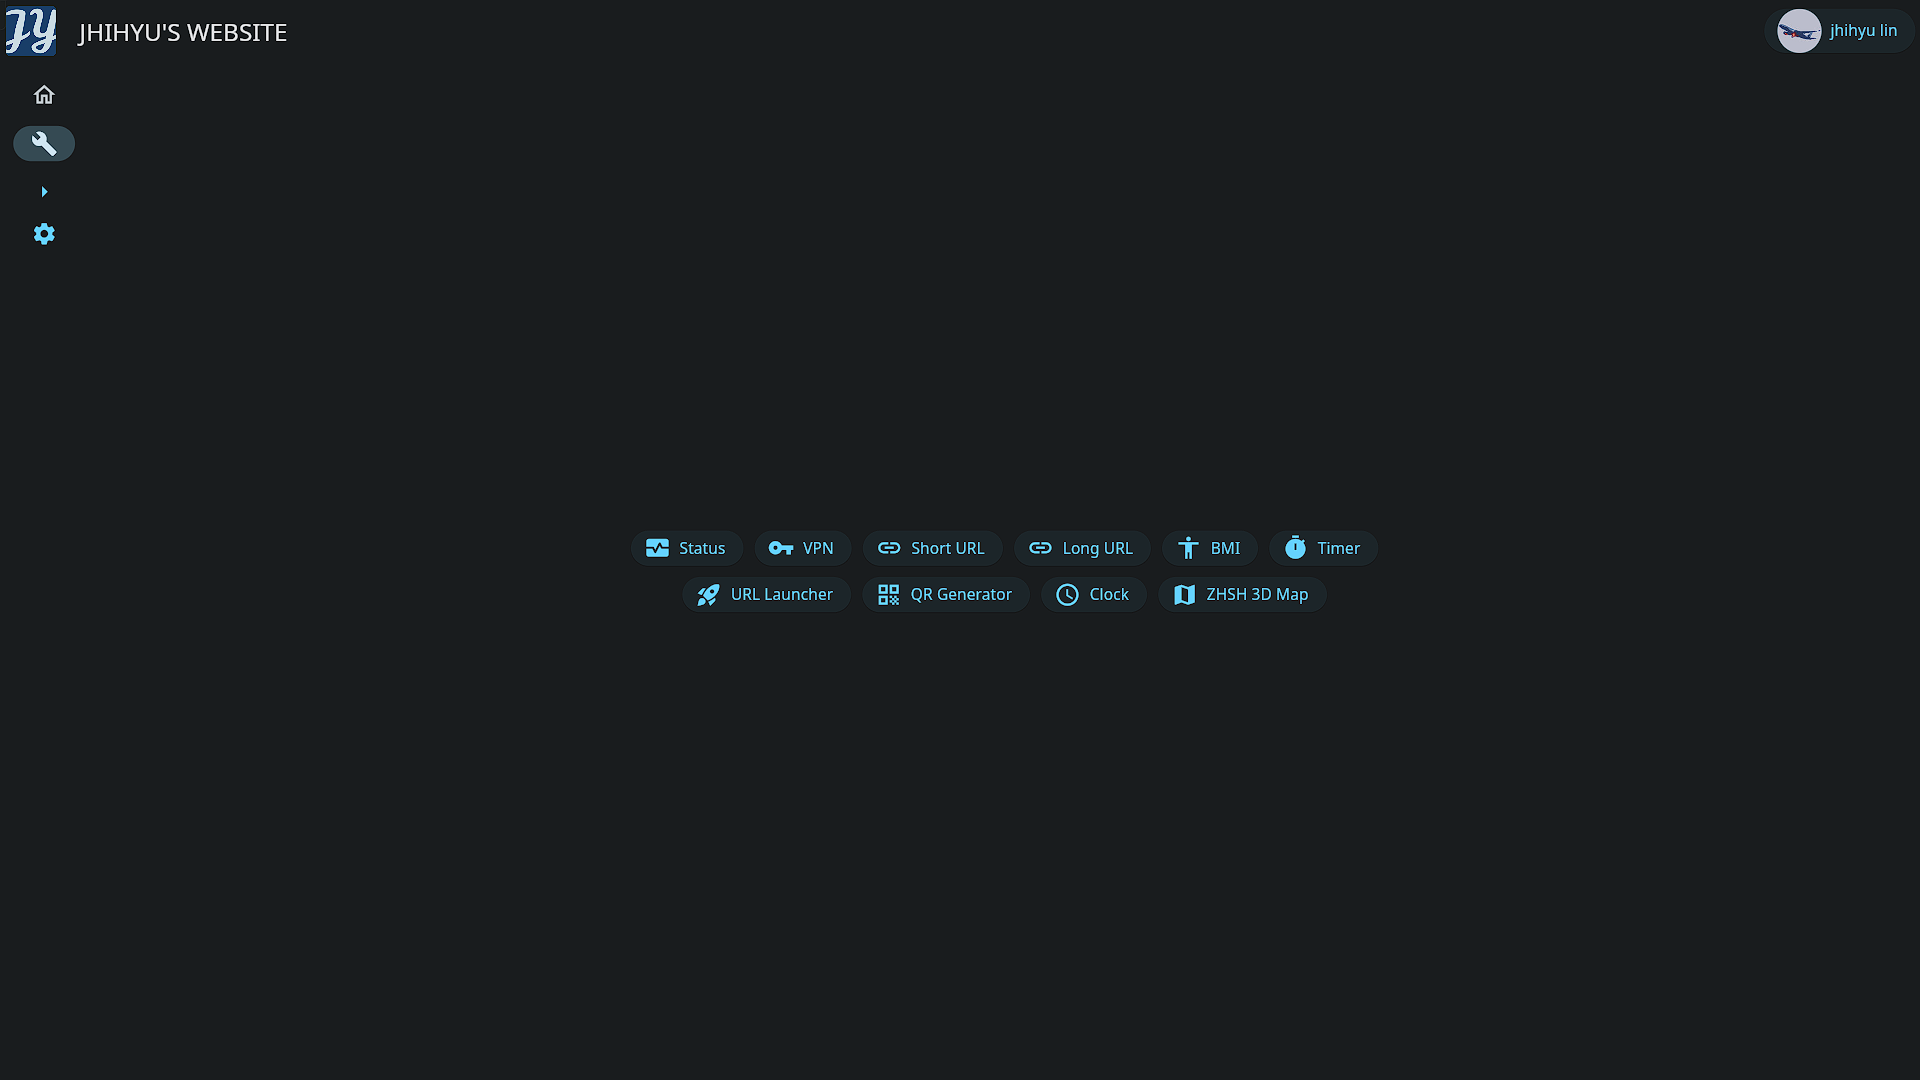
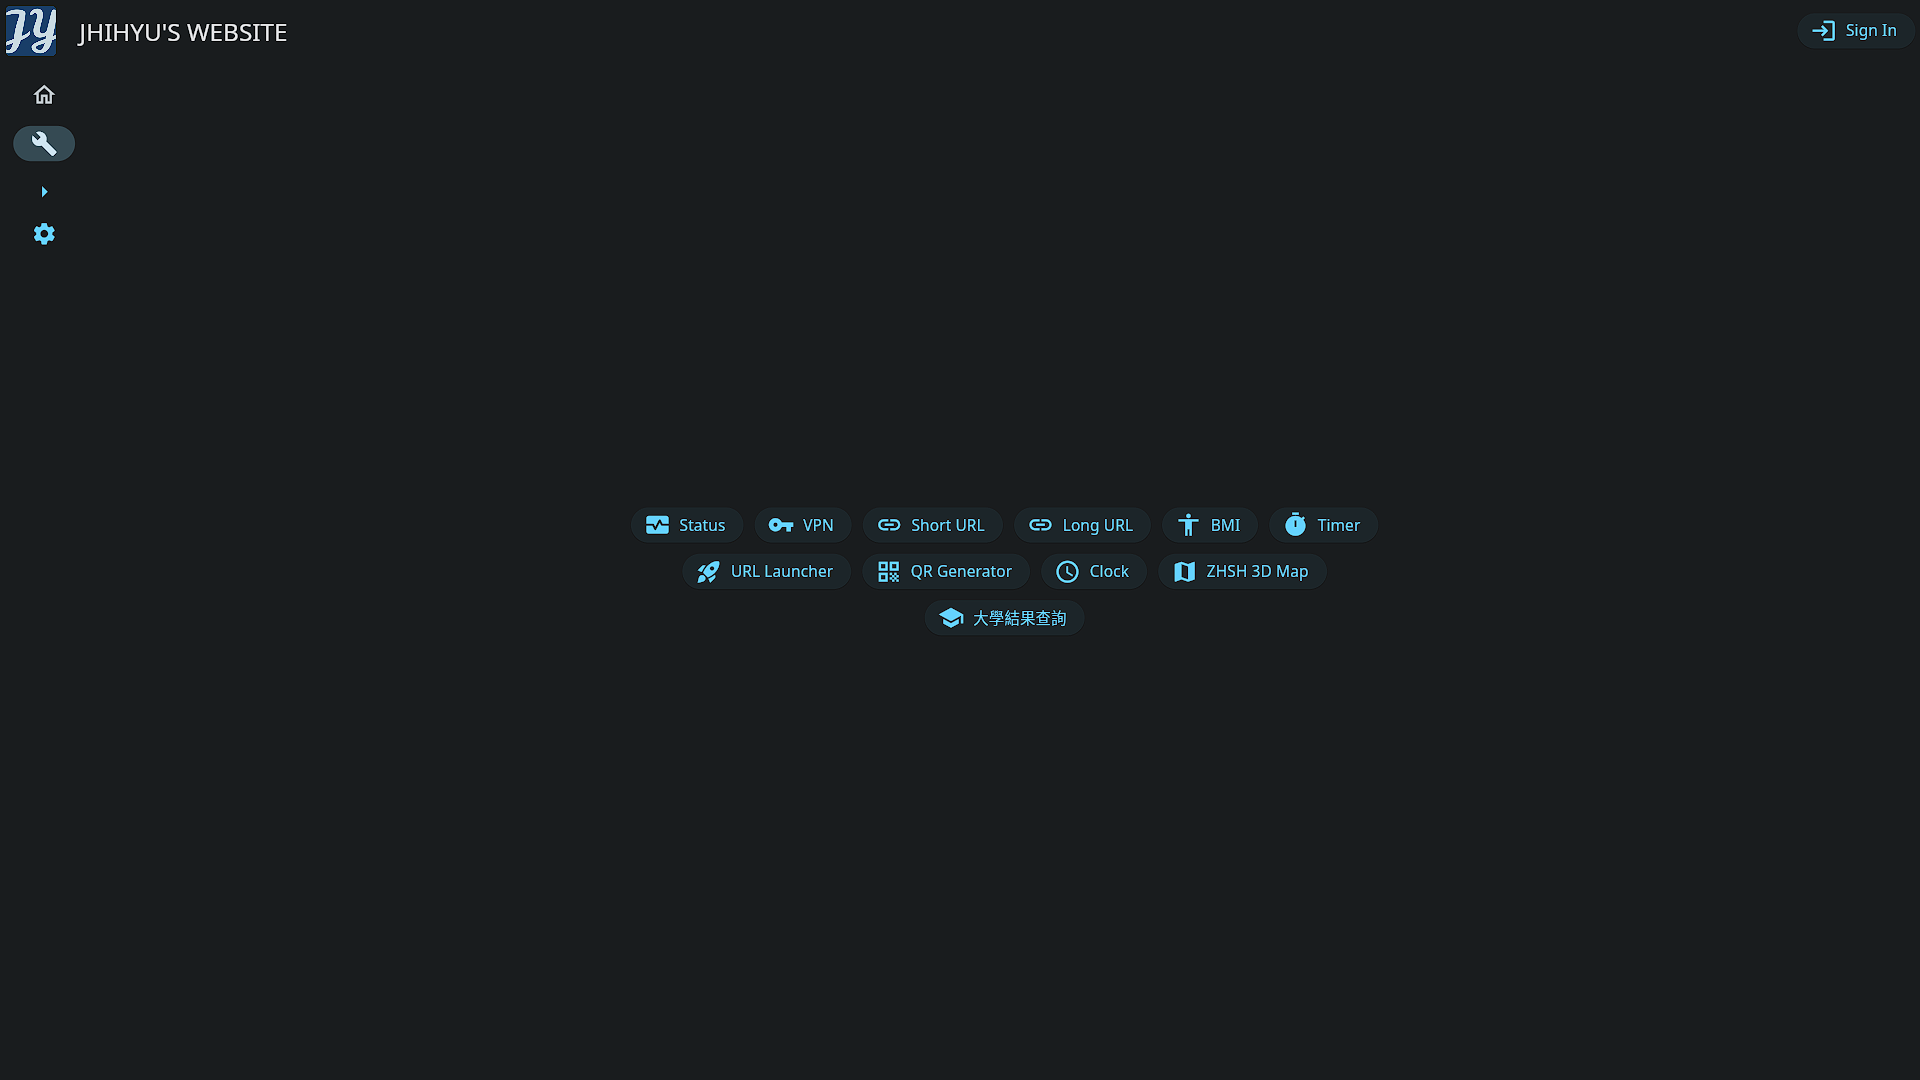
Update preview image & README

Changed region(s): [[0.3125, 0.4583, 0.7188, 0.5806], [0.9062, 0.0, 1.0, 0.0611]]

diff --git a/README.md b/README.md
@@ -17,5 +17,5 @@
 |URL Launcher|QR Generator|
 |![](/.github/preview/clock.png)|![](/.github/preview/zhsh3dmap.png)|
 |Clock|ZHSH 3D Map|
-|![](/.github/preview/setting.png)|
-|Setting|
+|![](/.github/preview/setting.png)|![](/.github/preview/twuniversityresultquery.png)|
+|Setting|TW University Result Query|
